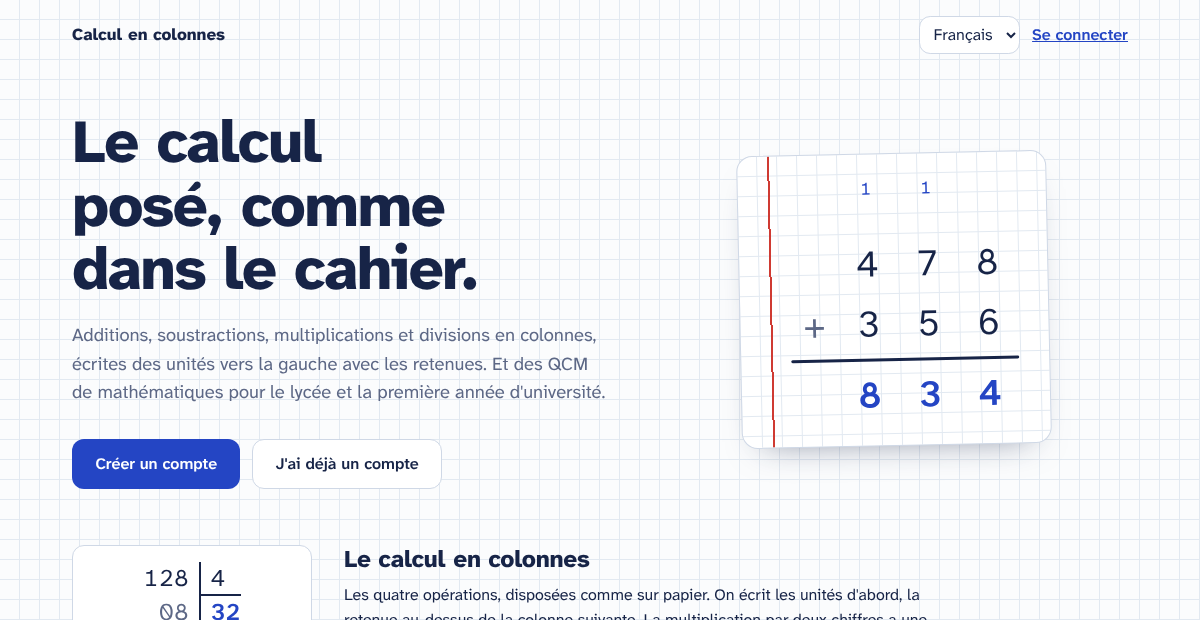
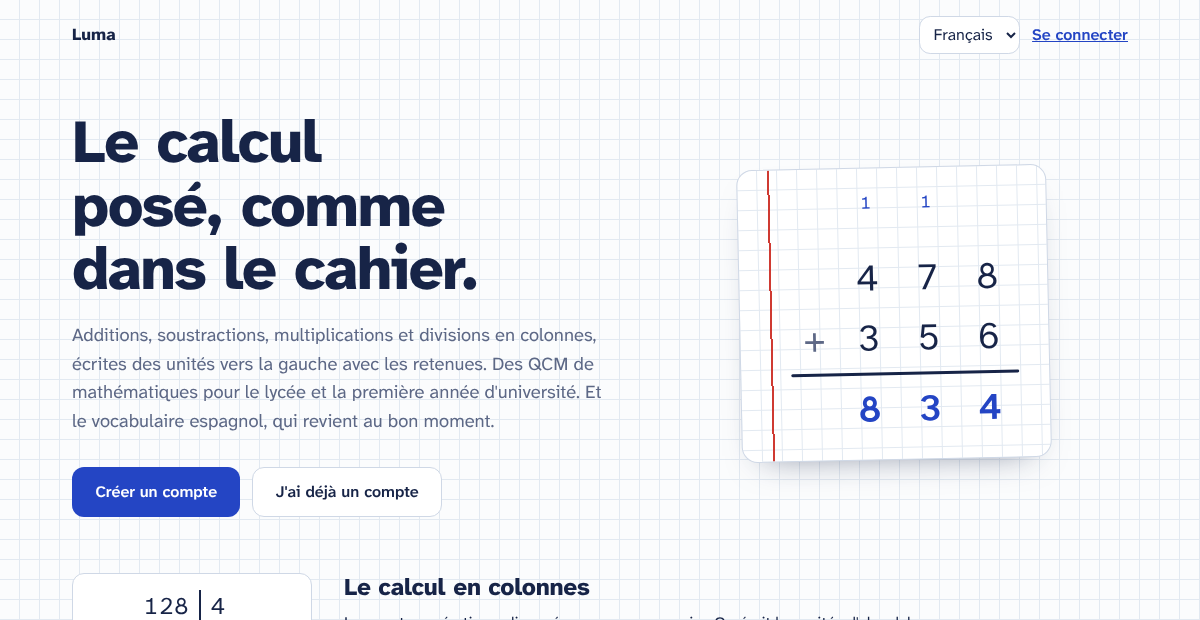
feat: brand app as Luma and add mobile installation support
- Rename browser titles and landing/sign-in pages to Luma in French, Spanish and English.
- Add a web app manifest, standard and maskable icons, Apple touch icons, and light/dark theme colours.
- Enable standalone full-screen installation on mobile and handle safe areas around notches and home indicators.
- Fix secondary button backgrounds for readability on squared paper.
- Update the vocabulary tab icon and showcase Spanish vocabulary on the landing page.
- Keep the PDF worksheet title as `Calcul en colonnes`.

diff --git a/src/landing.ts b/src/landing.ts
@@ -17,7 +17,7 @@ const texts = {
     signUp: "Créer un compte",
     haveAccount: "J'ai déjà un compte",
     title: "Le calcul posé, comme dans le cahier.",
-    lead: "Additions, soustractions, multiplications et divisions en colonnes, écrites des unités vers la gauche avec les retenues. Et des QCM de mathématiques pour le lycée et la première année d'université.",
+    lead: "Additions, soustractions, multiplications et divisions en colonnes, écrites des unités vers la gauche avec les retenues. Des QCM de mathématiques pour le lycée et la première année d'université. Et le vocabulaire espagnol, qui revient au bon moment.",
     figure: "Une addition posée : 478 plus 356 égale 834, avec deux retenues.",
     columnsTitle: "Le calcul en colonnes",
     columnsText: "Les quatre opérations, disposées comme sur papier. On écrit les unités d'abord, la retenue au-dessus de la colonne suivante. La multiplication par deux chiffres a une ligne par produit partiel ; la division a sa potence, avec le reste.",
@@ -28,6 +28,9 @@ const texts = {
     reviewTitle: "Les erreurs reviennent jusqu'à être comprises",
     reviewText: "Un type de question raté revient dans les tests suivants, jusqu'à deux bonnes réponses d'affilée. La page de progrès montre, pour chaque enfant, ce qui est acquis, ce qui est en cours et les erreurs les plus fréquentes.",
     reviewMore: "Dérivée d'une composée : à revoir",
+    vocabTitle: "Le vocabulaire espagnol, par répétition espacée",
+    vocabText: "Les chapitres d'un livre de vocabulaire deviennent des leçons. Chaque mot revient après 10 minutes, puis 1, 3, 7, 16 et 35 jours, et repart du début après une erreur. Choix multiples quand il est nouveau, réponse écrite quand il est connu.",
+    vocabMore: "Un accent oublié est pardonné, un article faux ne l'est pas.",
     familyTitle: "Un compte pour l'adulte, un accès pour chaque enfant",
     familyText: "Le parent ou l'enseignant crée le compte et les joueurs. Chaque enfant peut recevoir son propre identifiant : il ne voit alors que ses exercices et ses résultats.",
     privacy: "Pas de publicité, pas de traceur, aucune ressource chargée depuis un autre site.",
@@ -39,7 +42,7 @@ const texts = {
     signUp: "Crear una cuenta",
     haveAccount: "Ya tengo una cuenta",
     title: "Cálculo en columnas, como en el cuaderno.",
-    lead: "Sumas, restas, multiplicaciones y divisiones en columnas, escritas de las unidades hacia la izquierda con las llevadas. Y tests de matemáticas para bachillerato y primer año de universidad.",
+    lead: "Sumas, restas, multiplicaciones y divisiones en columnas, escritas de las unidades hacia la izquierda con las llevadas. Tests de matemáticas para bachillerato y primer año de universidad. Y vocabulario de español, que vuelve en el momento justo.",
     figure: "Una suma en columnas: 478 más 356 es 834, con dos llevadas.",
     columnsTitle: "Cálculo en columnas",
     columnsText: "Las cuatro operaciones, dispuestas como en papel. Se escriben primero las unidades y la llevada encima de la columna siguiente. La multiplicación por dos cifras tiene una línea por producto parcial; la división, su galera con el resto.",
@@ -50,6 +53,9 @@ const texts = {
     reviewTitle: "Los errores vuelven hasta entenderlos",
     reviewText: "Un tipo de pregunta fallado vuelve en los tests siguientes, hasta dos respuestas correctas seguidas. La página de progreso muestra, para cada niño, lo adquirido, lo que está en curso y los errores más frecuentes.",
     reviewMore: "Derivada de una composición: por repasar",
+    vocabTitle: "Vocabulario de español, con repetición espaciada",
+    vocabText: "Los capítulos de un libro de vocabulario se convierten en lecciones. Cada palabra vuelve a los 10 minutos, luego a 1, 3, 7, 16 y 35 días, y empieza de nuevo tras un error. Opción múltiple cuando es nueva, respuesta escrita cuando ya se conoce.",
+    vocabMore: "Una tilde olvidada se perdona, un artículo equivocado no.",
     familyTitle: "Una cuenta para el adulto, un acceso para cada niño",
     familyText: "El padre, la madre o el profesor crea la cuenta y los jugadores. Cada niño puede recibir su propio usuario: entonces solo ve sus ejercicios y sus resultados.",
     privacy: "Sin publicidad, sin rastreadores, ningún recurso cargado desde otro sitio.",
@@ -61,7 +67,7 @@ const texts = {
     signUp: "Create an account",
     haveAccount: "I already have an account",
     title: "Column arithmetic, the way it's written in the exercise book.",
-    lead: "Addition, subtraction, multiplication and division in columns, written from the units leftwards, with carries. And multiple-choice maths tests for secondary school and first-year university.",
+    lead: "Addition, subtraction, multiplication and division in columns, written from the units leftwards, with carries. Multiple-choice maths tests for secondary school and first-year university. And Spanish vocabulary that comes back at the right time.",
     figure: "A column addition: 478 plus 356 equals 834, with two carries.",
     columnsTitle: "Column arithmetic",
     columnsText: "The four operations, laid out as on paper. The units are written first, and the carry above the next column. Multiplying by two digits gives one line per partial product; division has its bracket and remainder.",
@@ -72,6 +78,9 @@ const texts = {
     reviewTitle: "Mistakes come back until they're understood",
     reviewText: "A kind of question answered wrong comes back in later quizzes until it has been answered right twice in a row. The progress page shows, for each child, what is mastered, what is in progress and their most frequent mistakes.",
     reviewMore: "Derivative of a composition: to review",
+    vocabTitle: "Spanish vocabulary, with spaced repetition",
+    vocabText: "The chapters of a vocabulary book become lessons. Each word comes back after 10 minutes, then 1, 3, 7, 16 and 35 days, and starts again after a mistake. Multiple choice while it is new, a written answer once it is known.",
+    vocabMore: "A forgotten accent is forgiven, a wrong article is not.",
     familyTitle: "One account for the adult, a sign-in for each child",
     familyText: "The parent or teacher creates the account and the players. Each child can get a username of their own: they then see only their own exercises and results.",
     privacy: "No ads, no trackers, nothing loaded from another site.",
@@ -138,6 +147,18 @@ function reviewSample(): HTMLElement {
   return box;
 }
 
+/** A vocabulary card as the app shows it: the word, its box. */
+function vocabSample(): HTMLElement {
+  const box = el("div", "sample-vocab");
+  box.setAttribute("aria-hidden", "true");
+  const word = el("span", "sample-vocab-word", "la llave");
+  word.lang = "es";
+  const dots = el("span", "vocab-box");
+  for (let i = 1; i <= 6; i++) dots.append(el("span", i <= 3 ? "on" : ""));
+  box.append(word, el("span", "sample-vocab-answer", "key"), dots);
+  return box;
+}
+
 export interface LandingContext {
   options: AuthOptions;
   /** The page's top bar (language selector), shared with the app. */
@@ -149,7 +170,7 @@ export function landingView({ options, topBar }: LandingContext): HTMLElement {
 
   // Header: name of the app on the left, language and sign-in on the right.
   const head = el("header", "landing-head");
-  const brand = el("a", "brand", "Calcul en colonnes");
+  const brand = el("a", "brand", "Luma");
   brand.href = "#about";
   const signIn = el("a", "landing-signin", lt("signIn"));
   signIn.href = "#sign-in";
@@ -189,6 +210,7 @@ export function landingView({ options, topBar }: LandingContext): HTMLElement {
     feature("columnsTitle", "columnsText", "columnsMore", divisionSample()),
     feature("quizTitle", "quizText", "quizMore", formulaSample()),
     feature("reviewTitle", "reviewText", null, reviewSample()),
+    feature("vocabTitle", "vocabText", "vocabMore", vocabSample()),
   );
 
   const family = el("section", "family");

diff --git a/index.html b/index.html
@@ -2,8 +2,23 @@
 <html lang="fr">
   <head>
     <meta charset="UTF-8" />
-    <meta name="viewport" content="width=device-width, initial-scale=1.0" />
-    <title>Calcul en colonnes</title>
+    <meta name="viewport" content="width=device-width, initial-scale=1.0, viewport-fit=cover" />
+    <title>Luma – Mon cahier</title>
+    <meta name="description" content="Calcul en colonnes, QCM de mathématiques et vocabulaire espagnol." />
+
+    <!-- Installable on a phone's home screen (manifest), with the browser's bar in the page's colours. -->
+    <link rel="manifest" href="/manifest.webmanifest" />
+    <link rel="icon" href="/icons/icon.svg" type="image/svg+xml" />
+    <link rel="icon" href="/icons/favicon-32.png" sizes="32x32" type="image/png" />
+    <meta name="theme-color" content="#fbfcfd" media="(prefers-color-scheme: light)" />
+    <meta name="theme-color" content="#1c2925" media="(prefers-color-scheme: dark)" />
+
+    <!-- iPhone and iPad: "Add to Home Screen" uses these instead of the manifest's icons. -->
+    <link rel="apple-touch-icon" href="/icons/apple-touch-icon.png" />
+    <meta name="apple-mobile-web-app-capable" content="yes" />
+    <meta name="mobile-web-app-capable" content="yes" />
+    <meta name="apple-mobile-web-app-title" content="Luma" />
+    <meta name="apple-mobile-web-app-status-bar-style" content="default" />
   </head>
   <body>
     <main id="app"></main>

diff --git a/tests/e2e/languages.spec.ts b/tests/e2e/languages.spec.ts
@@ -2,9 +2,9 @@ import { expect, test, type Page } from "@playwright/test";
 import { newPlayer, takeQuiz } from "./helpers";
 
 const LANGUAGES = [
-  { code: "fr", vocabTab: "🗣 Vocabulaire", quizTab: "📐 QCM", start: "Commencer le test", progress: "📈 Mes progrès", title: "Calcul en colonnes" },
-  { code: "es", vocabTab: "🗣 Vocabulario", quizTab: "📐 Test", start: "Empezar el test", progress: "📈 Mi progreso", title: "Cálculo en columnas" },
-  { code: "en", vocabTab: "🗣 Vocabulary", quizTab: "📐 Quiz", start: "Start the quiz", progress: "📈 My progress", title: "Column arithmetic" },
+  { code: "fr", vocabTab: "💬 Vocabulaire", quizTab: "📐 QCM", start: "Commencer le test", progress: "📈 Mes progrès", title: "Luma – Mon cahier" },
+  { code: "es", vocabTab: "💬 Vocabulario", quizTab: "📐 Test", start: "Empezar el test", progress: "📈 Mi progreso", title: "Luma – Mi cuaderno" },
+  { code: "en", vocabTab: "💬 Vocabulary", quizTab: "📐 Quiz", start: "Start the quiz", progress: "📈 My progress", title: "Luma – My exercise book" },
 ];
 
 /** No missing translation: no placeholder or "undefined" left in the page. */

diff --git a/src/style.css b/src/style.css
@@ -68,6 +68,9 @@ h3 {
   max-width: 32rem;
   margin: 0 auto;
   padding: 1rem;
+  /* Installed on a phone: keep clear of the notch and the home bar. */
+  padding-top: max(1rem, env(safe-area-inset-top));
+  padding-bottom: max(1rem, env(safe-area-inset-bottom));
 }
 
 .bar {
@@ -280,7 +283,7 @@ button.primary:hover {
 }
 
 button.ghost {
-  background: transparent;
+  background: var(--paper);
   color: var(--muted);
   border-color: var(--line);
 }
@@ -1423,7 +1426,8 @@ a:focus-visible {
 
 .sample-division,
 .sample-formula,
-.sample-review {
+.sample-review,
+.sample-vocab {
   background: var(--paper);
   border: 1px solid var(--line);
   border-radius: var(--radius);
@@ -1545,7 +1549,8 @@ a:focus-visible {
 
   .sample-division,
   .sample-formula,
-  .sample-review {
+  .sample-review,
+  .sample-vocab {
     justify-self: start;
     min-width: 13rem;
   }
@@ -1903,4 +1908,19 @@ button.vocab-letter {
     font-size: 0.9rem;
     line-height: 1.25;
   }
+}
+
+.sample-vocab {
+  gap: 0.3rem;
+  text-align: center;
+}
+
+.sample-vocab-word {
+  font-size: 1.5rem;
+  font-weight: 800;
+}
+
+.sample-vocab-answer {
+  color: var(--accent);
+  font-weight: 600;
 }

diff --git a/src/vocab-i18n.ts b/src/vocab-i18n.ts
@@ -1,7 +1,7 @@
 import { currentLang, type Lang } from "./i18n";
 
 const fr = {
-  modeVocab: "🗣 Vocabulaire",
+  modeVocab: "💬 Vocabulaire",
   title: "Vocabulaire espagnol",
   empty: "Le vocabulaire n'est pas encore importé sur ce serveur. La marche à suivre est dans docs/vocabulary.md.",
   dueNow: "{count} mots à réviser",
@@ -57,7 +57,7 @@ const fr = {
 type Key = keyof typeof fr;
 
 const es: Record<Key, string> = {
-  modeVocab: "🗣 Vocabulario",
+  modeVocab: "💬 Vocabulario",
   title: "Vocabulario de español",
   empty: "El vocabulario aún no se ha importado en este servidor. Los pasos están en docs/vocabulary.md.",
   dueNow: "{count} palabras por repasar",
@@ -111,7 +111,7 @@ const es: Record<Key, string> = {
 };
 
 const en: Record<Key, string> = {
-  modeVocab: "🗣 Vocabulary",
+  modeVocab: "💬 Vocabulary",
   title: "Spanish vocabulary",
   empty: "The vocabulary has not been imported on this server yet. The steps are in docs/vocabulary.md.",
   dueNow: "{count} words to review",

diff --git a/src/i18n.ts b/src/i18n.ts
@@ -2,6 +2,7 @@
 
 const fr = {
   appTitle: "Calcul en colonnes",
+  pageTitle: "Luma – Mon cahier",
   language: "Langue",
   whoPlays: "Qui joue ?",
   newName: "Nouveau prénom",
@@ -63,6 +64,7 @@ export type Key = keyof typeof fr;
 
 const es: Record<Key, string> = {
   appTitle: "Cálculo en columnas",
+  pageTitle: "Luma – Mi cuaderno",
   language: "Idioma",
   whoPlays: "¿Quién juega?",
   newName: "Nuevo nombre",
@@ -122,6 +124,7 @@ const es: Record<Key, string> = {
 
 const en: Record<Key, string> = {
   appTitle: "Column arithmetic",
+  pageTitle: "Luma – My exercise book",
   language: "Language",
   whoPlays: "Who's playing?",
   newName: "New first name",
@@ -206,7 +209,7 @@ export const currentLang = (): Lang => current;
 export function setLang(lang: Lang): void {
   current = lang;
   document.documentElement.lang = lang;
-  document.title = t("appTitle");
+  document.title = t("pageTitle");
 }
 
 export function t(key: Key, values: Record<string, string | number> = {}): string {

diff --git a/src/main.ts b/src/main.ts
@@ -126,7 +126,7 @@ async function render(): Promise<void> {
       app.replaceChildren(landingView({ options, topBar: topBar() }));
     } else {
       const bar = topBar();
-      const brand = el("a", "brand", "Calcul en colonnes");
+      const brand = el("a", "brand", "Luma");
       brand.href = "#about";
       bar.firstElementChild?.append(brand);
       app.replaceChildren(bar, signInView(options, () => void enter(true), notice, where === "signUp" ? "signUp" : "signIn"));

diff --git a/tests/e2e/vocab.spec.ts b/tests/e2e/vocab.spec.ts
@@ -23,7 +23,7 @@ async function next(page: Page): Promise<void> {
 }
 
 async function openVocab(page: Page): Promise<void> {
-  await page.click("text=🗣 Vocabulaire");
+  await page.click("text=💬 Vocabulaire");
   await page.locator(".vocab-home").waitFor();
 }
 

diff --git a/CHANGELOG.md b/CHANGELOG.md
@@ -1,8 +1,17 @@
 # Changelog
 
+## 4.2.1
+
+- **Named Luma:** the browser tab reads *Luma – Mon cahier*, *Luma – Mi cuaderno* or *Luma – My exercise book*, and the landing and sign-in pages show *Luma*. The PDF worksheet keeps its title *Calcul en colonnes*.
+- **Installable on a phone:** web app manifest, icons (squared paper, red margin, pen-blue L; standard, maskable and Apple sizes), theme colour for light and dark, full screen without the browser's bar. Chromium reports no installability errors.
+- Secondary buttons (player, scores, account) were transparent over the squared paper; they now have a paper background.
+- The vocabulary tab's icon is 💬, readable on the selected blue tab.
+- The landing page presents the Spanish vocabulary too.
+- Content keeps clear of the notch and the home bar when installed.
+
 ## 4.2.0
 
-- **Spanish vocabulary tab** (*🗣 Vocabulaire*), from a phrase book you own: its chapters are the lessons, its sections the sections.
+- **Spanish vocabulary tab** (*💬 Vocabulaire*), from a phrase book you own: its chapters are the lessons, its sections the sections.
 - **Spaced repetition** with Leitner boxes, per word and per direction (Spanish → meaning, meaning → Spanish): 10 minutes, then 1, 3, 7, 16 and 35 days; back to the start after a mistake, which is also asked again at the end of the session.
 - **Multiple choice and written answers:** multiple choice while a word is new, written once it is known, or either one always. Wrong options come from the same section. Phrases of more than four words stay multiple choice.
 - **Grading of written answers** (shared by browser and server): accents and one-letter slips forgiven with the spelling shown; a missing or wrong article counted wrong; the book's alternatives (`/`), optional brackets and `...` understood. Buttons for *á é í ó ú ü ñ ¿ ¡*.

diff --git a/docs/user-guide.md b/docs/user-guide.md
@@ -13,6 +13,7 @@ describes every screen, every setting and the keyboard shortcuts.
 - [Spanish vocabulary](#spanish-vocabulary)
 - [Scores](#scores)
 - [Language](#language)
+- [On a phone or tablet](#on-a-phone-or-tablet)
 - [What is stored where](#what-is-stored-where)
 
 ## Signing in
@@ -241,7 +242,7 @@ by clicking a player's name on the Scores screen. It shows:
 
 ## Spanish vocabulary
 
-Tab **🗣 Vocabulaire**. It shows the lessons and sections of the phrase book
+Tab **💬 Vocabulaire**. It shows the lessons and sections of the phrase book
 imported on the server (see [Vocabulary › Importing a book](vocabulary.md#importing-a-book)).
 
 **The screen**
@@ -289,6 +290,18 @@ of these three, French otherwise; the choice is then remembered.
 
 - **Spanish:** formulas use the Spanish notation `sen` and `arcsen`.
 - **English:** the column layouts stay the French and Spanish ones taught in Europe. In particular, the division is the bracket layout, not the English long-division layout.
+
+## On a phone or tablet
+
+Luma can be put on the home screen and then opens like an app, full screen,
+without the browser's address bar.
+
+- **Android (Chrome):** menu ⋮ › *Install app* (or *Add to Home screen*).
+- **iPhone and iPad (Safari):** share button › *Add to Home Screen*.
+
+The icon is named *Luma*. Sign in once in the installed app: on iPhone it
+keeps its own sign-in, separate from Safari's. The app still needs the
+connection to the server; it does not work offline.
 
 ## What is stored where
 

diff --git a/docs/database.md b/docs/database.md
@@ -225,10 +225,10 @@ database: PostgreSQL (ep-example-123456.eu-central-1.aws.neon.tech/calcul)
 
 ## Moving to Neon
 
-1. **Create the database.** In the Neon console, create an empty database and copy its connection string, which includes `sslmode=require`.
+1. **Create the database.** In the Neon console, create an empty database and copy its connection string. Replace `sslmode=require` with `sslmode=verify-full`: the `pg` driver already treats `require` as `verify-full` (it checks the certificate and the host name), but warns at startup that `require` will mean less in its next major version.
 2. **Point the server at it.** Put the string in `.env`:
    ```
-   DATABASE_URL=postgresql://user:password@ep-….neon.tech/calcul?sslmode=require
+   DATABASE_URL=postgresql://user:password@ep-….neon.tech/calcul?sslmode=verify-full
    ```
 3. **Copy the existing SQLite data** (optional):
    ```sh

diff --git a/README.md b/README.md
@@ -1,9 +1,13 @@
-# Calcul en colonnes
+# Luma
 
-A web app for practising arithmetic the way it is written on paper, and for
+A web app for practising arithmetic the way it is written on paper, for
 multiple-choice tests in secondary-school and first-year university
-mathematics. French, Spanish and English interface; one server, one small database,
-sign-in by password or Google, Microsoft, GitHub and other OpenID providers.
+mathematics, and for Spanish vocabulary with spaced repetition. French, Spanish
+and English interface; one server, one small database; sign-in by password or
+Google, Microsoft, GitHub and other OpenID providers; installable on a phone's
+home screen.
+
+The project and its folder keep their first name, `calcul-colonnes`.
 
 <p>
   <img src="docs/images/landing.png" width="820" alt="Landing page: an addition being written in columns on squared paper">
